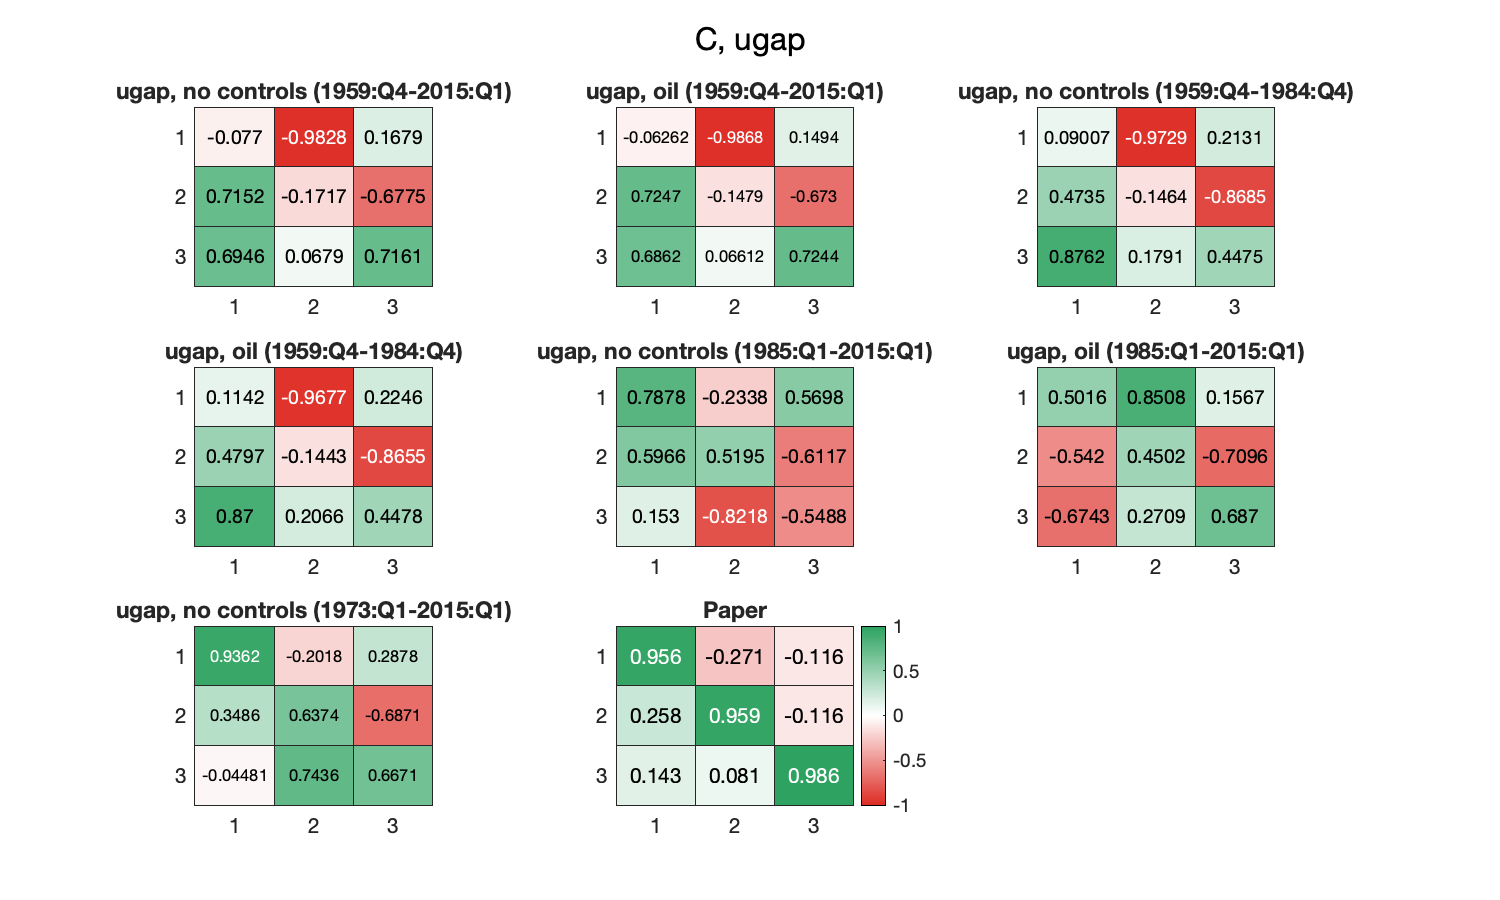
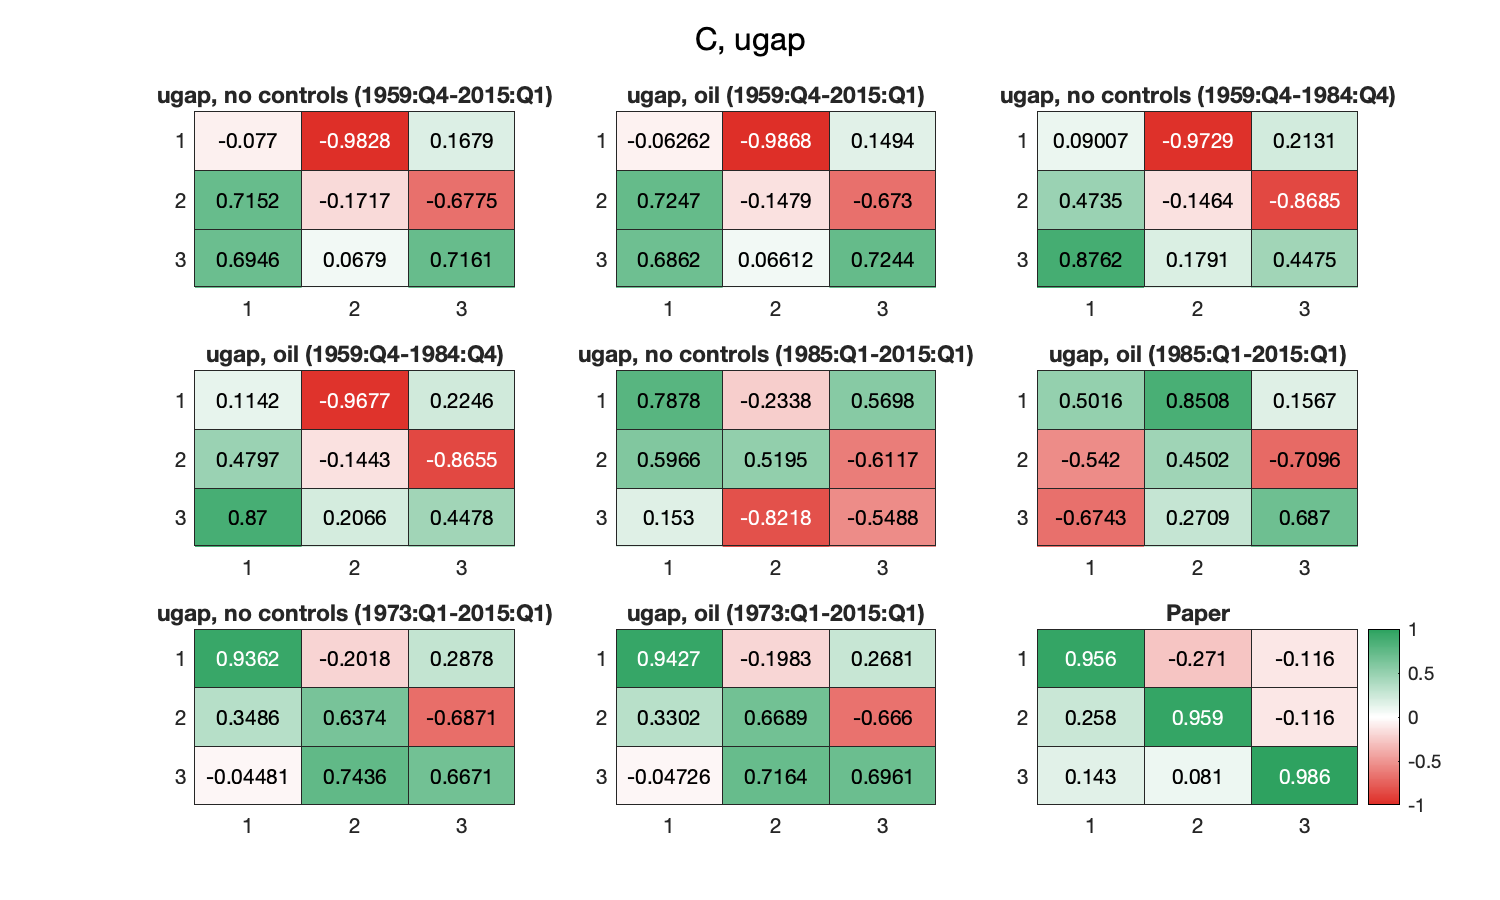
Update figures

diff --git a/empirical/mainEmpirical.m b/empirical/mainEmpirical.m
@@ -177,6 +177,7 @@ for j = 1:nSpec
         % Flip signs to ensure positive diagonal
         the_estim       = C_estim_raw(:,:,im).*sign(diag(C_estim_raw(:,:,im))'); 
         C_estim(:,:,im) = permute_mat(the_estim, CRef); % Best-fitting column permutation
+%        C_estim(:,:,im) = the_estim; 
         C_estim_raw(:,:,im) = the_estim;
     end
    
@@ -240,7 +241,7 @@ for jFig = idx_ugap
     colormap(cm)
     figIdx = figIdx + 1;
 end
-
+subplot(3,3,9)
 heatmap(Spec(jFig).CRef, 'ColorbarVisible', 'on', 'ColorLimits', [-1 1])
 title('Paper')
 colormap(cm)
@@ -263,7 +264,7 @@ for jFig = idx_ygap
     colormap(cm)
     figIdx = figIdx + 1;
 end
-
+subplot(3,3,9)
 heatmap(Spec(jFig).CRef, 'ColorbarVisible', 'on', 'ColorLimits', [-1 1])
 title('Paper')
 colormap(cm)
